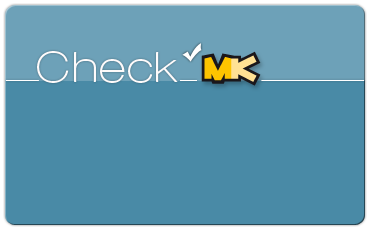
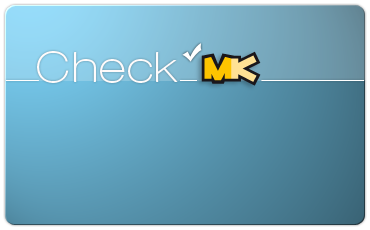
Updated layout of login screen

diff --git a/web/htdocs/login.css b/web/htdocs/login.css
@@ -46,12 +46,13 @@ body.main {
 
 div#login {
     background-image: url("images/login_spotlight.png");
-    width: 605px;
-    height: 410px;
+    background-repeat: no-repeat;
+    width: 770px;
+    height: 605px;
     position: absolute;
     top: 50%;
     left: 50%;
-    margin: -205px 0px 0px -302px;
+    margin: -276px 0px 0px -386px;
     /* border: 1px solid yellow; */
 }
 
@@ -60,7 +61,7 @@ img#login_window {
     height: 230px;
     position: relative;
     left: 10px;
-    top: 10px;
+    top: 160px;
     float: none;
 }
 
@@ -70,35 +71,38 @@ label {
 
 #version {
     position: absolute;
-    top: 25px;
-    left: 420px;
+    text-align: right;
+    width: 150px;
+    top: 173px;
+    left: 415px;
     color: white;
+    font-size: 8pt;
 }
 
 #label_user, #label_pass {
-    left: 174px;
+    left: 264px;
 }
 
 #input_user, #input_pass {
-    left: 250px;
+    left: 330px;
 }
 
 #label_user {
     position: absolute;
-    top: 132px;
+    top: 275px;
 }
 #input_user {
     position: absolute;
-    top: 128px;
+    top: 270px;
 }
 
 #label_pass {
     position: absolute;
-    top: 168px;
+    top: 315px;
 }
 #input_pass {
     position: absolute;
-    top: 164px;
+    top: 310px;
 }
 
 #input_user, #input_pass {
@@ -108,8 +112,8 @@ label {
 
 #button_login {
     position: absolute;
-    top: 190px;
-    left: 415px;
+    top: 345px;
+    left: 505px;
 }
 
 #button_login img {
@@ -119,12 +123,14 @@ label {
 
 #button_text {
     position: absolute;
-    top: 198px;
-    left: 415px;
+    top: 355px;
+    left: 505px;
     text-align: center;
     width: 61px;
     color: white;
     z-index: 100;
+    font-size: 10px;
+    text-transform: uppercase;
 }
 
 #login_error {
@@ -139,8 +145,8 @@ label {
 #foot {
     position: absolute;
     text-align: center;
-    top: 250px;
-    left: 135px;
+    top: 400px;
+    left: 220px;
     width: 350px;
     color: white;
     font-size: 8pt;
